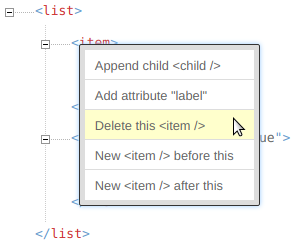
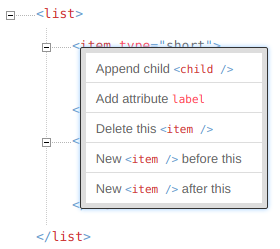
format captions

Changed region(s): [[0.1143, 0.1148, 0.9714, 0.9754], [0.1143, 0.0, 0.3143, 0.0861], [0.0, 0.0287, 0.0857, 0.0861]]

diff --git a/src/Bubble.tsx b/src/Bubble.tsx
@@ -18,6 +18,51 @@ interface Props {
     xml: Xml;
 }
 
+const formatCaption = (caption: string) => {
+    let key = 1;
+    return caption.split(/((?:<\/?[^>]+\/?>)|(?:@[^ =]+(?:="[^"]*")?))/).map((piece) => {
+        const elementMatches = piece.match(/<(\/?)([^>\/]+)(\/?)>/);
+        const attrMatches = piece.match(/@(?:([^ ="]+))?=?(?:"([^"]*)")?/);
+        if (elementMatches) {
+            return (
+                <span className="techno" key={ key++ }>
+                    <span className="punc">&lt;{ elementMatches[1] }</span>
+                    <span className="elName">{ elementMatches[2] }</span>
+                    <span className="punc">{ elementMatches[3] }&gt;</span>
+                </span>
+            );
+        } else if (attrMatches) {
+            let name;
+            if (attrMatches[1]) {
+                name = <span className="atName">{ attrMatches[1] }</span>;
+            }
+            let value;
+            if (typeof attrMatches[2] !== 'undefined') {
+                let equals;
+                if (name) {
+                    equals = <span className="punc equals">=</span>;
+                }
+                value = (
+                    <React.Fragment>
+                        { equals }
+                        <span className="punc">"</span>
+                        {attrMatches[2] && <span className="atValue">{ attrMatches[2] }</span>}
+                        <span className="punc">"</span>
+                    </React.Fragment>
+                );
+            }
+
+            return (
+                <span className="techno" key={ key++ }>
+                    { name }
+                    { value }
+                </span>
+            );
+        }
+        return piece;
+    });
+};
+
 export default class Bubble extends React.Component<Props> {
     public constructor(props: Props) {
         super(props);
@@ -80,7 +125,7 @@ export default class Bubble extends React.Component<Props> {
                         actions.showBubble({ show: false });
                     } }
                 >
-                    { menuItemSpec.caption }
+                    { formatCaption(menuItemSpec.caption) }
                 </div>
             ));
 

diff --git a/test/Bubble.test.tsx b/test/Bubble.test.tsx
@@ -200,6 +200,48 @@ describe('Bubble component', () => {
         expect(component.toJSON()).toBeNull();
     });
 
+    test('captions should be correctly formatted', () => {
+        const docSpec = {
+            elements: {
+                element: {
+                    menu: [{
+                        action: deleteElement,
+                        caption: '<element />',
+                    },{
+                        action: deleteElement,
+                        caption: '@key="value"',
+                    },{
+                        action: deleteElement,
+                        caption: '@key',
+                    },{
+                        action: deleteElement,
+                        caption: '@key=""',
+                    },{
+                        action: deleteElement,
+                        caption: '@"value"',
+                    }],
+                },
+            },
+        };
+        const component = renderer.create(
+            <Bubble
+                actions={{} as any}
+                attribute="attribute"
+                docSpec={docSpec}
+                element="element"
+                id={['root', '$$', '0']}
+                left={0}
+                mode="nerd"
+                show
+                top={0}
+                type={BubbleType.MENU}
+                value="value"
+                xml={{root: {'#name': 'root', $$: [{'#name': 'element'}]}}}
+            />
+        );
+        expect(component.toJSON()).toMatchSnapshot();
+    });
+
     test('menu item should be hidden if hideIf() returns true', () => {
         const docSpec = {
             elements: {

diff --git a/src/XmlEditor.tsx b/src/XmlEditor.tsx
@@ -11,6 +11,7 @@ type DefaultProps = {
 
 type Props = {
     docSpec: DocSpec;
+    onChange?: () => void;
     ref: React.RefObject<XmlEditor>;
     xml: string;
 } & Partial<DefaultProps>;
@@ -77,8 +78,14 @@ export default class XmlEditor extends React.Component<Props & DefaultProps, Sta
     }
 
     private setXml(xml: Xml) {
+        const { onChange } = this.props;
+
         this.setState({
             xml,
+        }, () => {
+            if (onChange) {
+                onChange();
+            }
         });
     }
 

diff --git a/demo/App.tsx b/demo/App.tsx
@@ -32,7 +32,7 @@ const docSpec: DocSpec = {
                     name: 'label',
                     value: 'default value',
                 }),
-                caption: 'Add attribute "label"',
+                caption: 'Add attribute @label',
                 hideIf: (element) => {
                     return element && element.$ && typeof element.$.label !== 'undefined';
                 },

diff --git a/README.md b/README.md
@@ -11,12 +11,17 @@ React XML Editor, inspired by [xonomy](https://github.com/michmech/xonomy).
 Render the XmlEditor component, passing in the initial XML as a string.  Add, remove and modify elements, attributes and text according to the document spec that you provide.  Harvest the modified XML as a string.  See the demo directory for a full example. 
 
 ## Screenshots
-
+### Edit Attribute
 ![Screenshot 1](https://raw.githubusercontent.com/captain-igloo/react-xml-editor/master/doc/screenshot1.png)
 
+### Add / Remove Elements / Attributes
 ![Screenshot 2](https://raw.githubusercontent.com/captain-igloo/react-xml-editor/master/doc/screenshot2.png)
 
+### Edit Element Text
 ![Screenshot 3](https://raw.githubusercontent.com/captain-igloo/react-xml-editor/master/doc/screenshot3.png)
+
+### "Laic" Style
+![Screenshot 3](https://raw.githubusercontent.com/captain-igloo/react-xml-editor/master/doc/screenshot4.png)
 
 ## Contact
 
